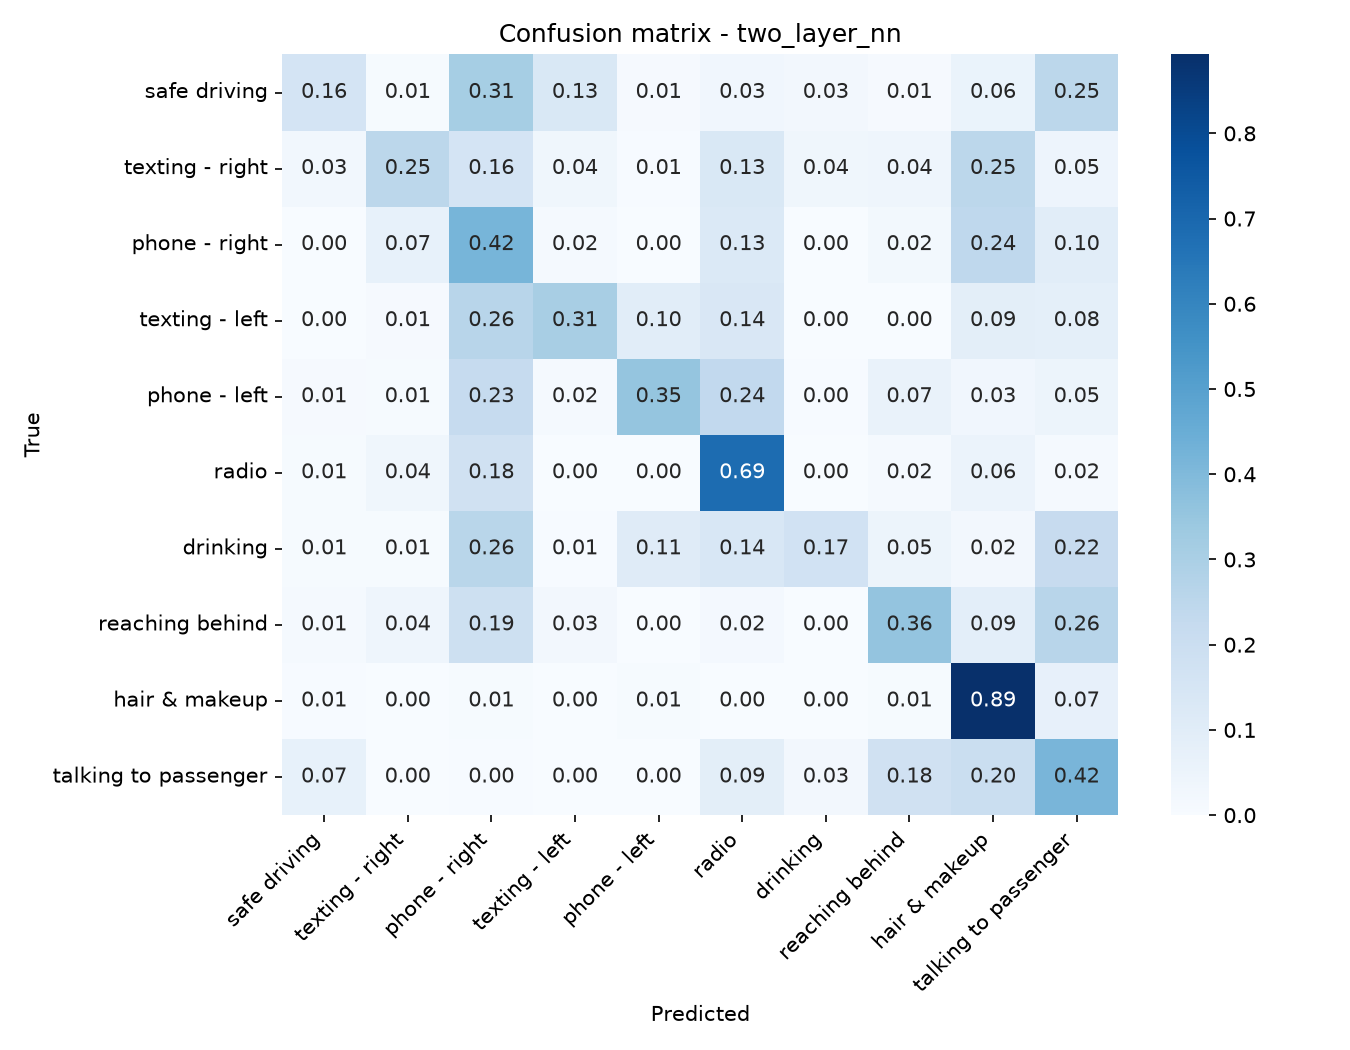
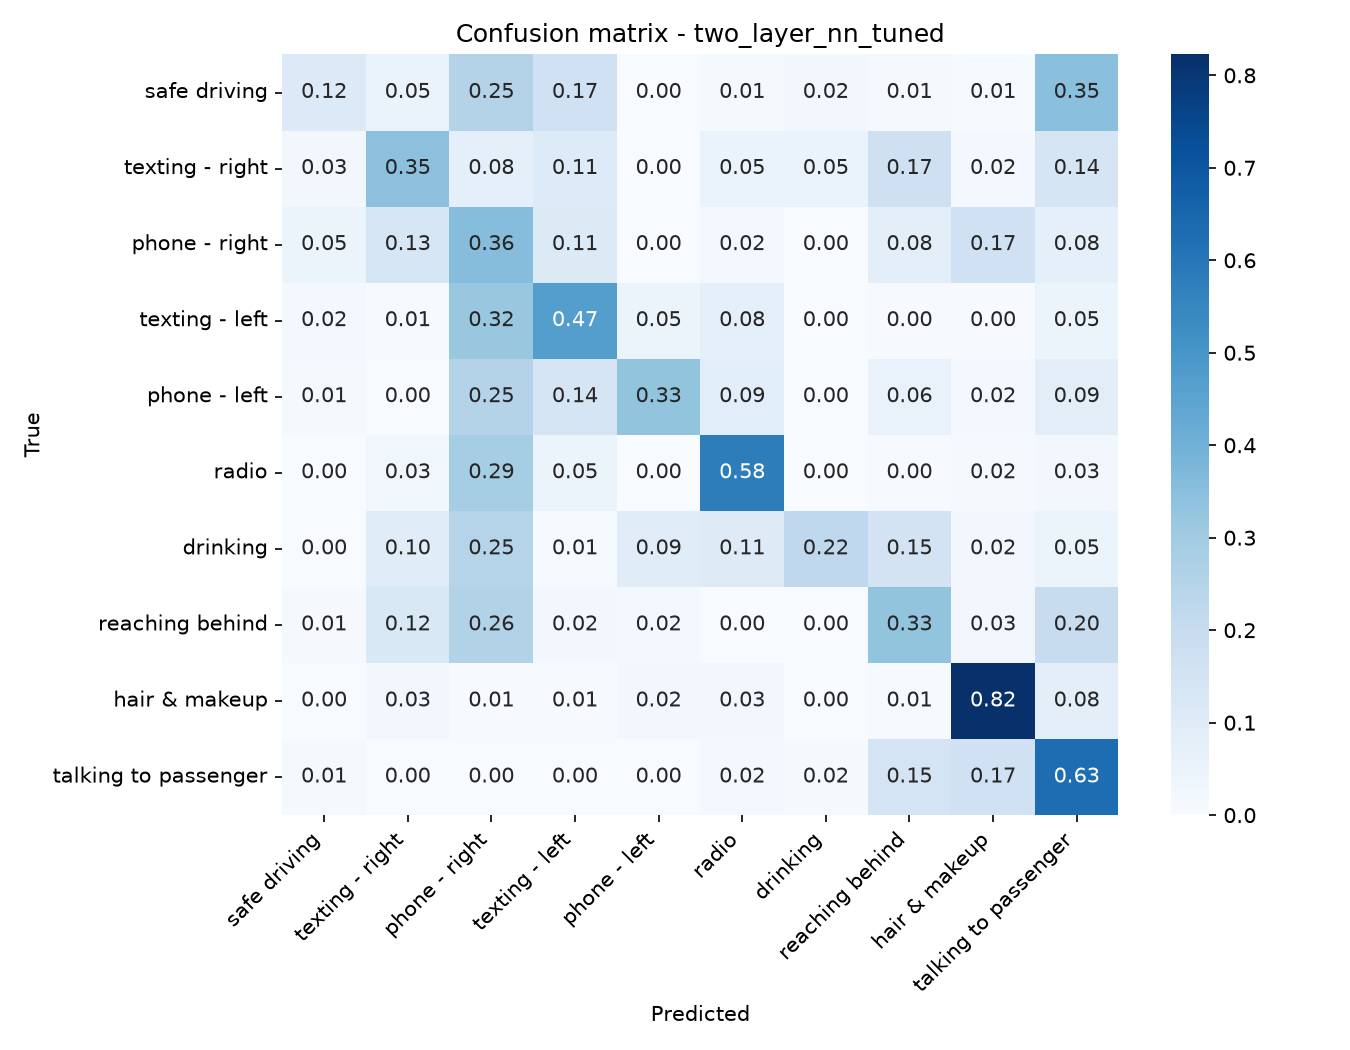
Add tuned neural network and random-split comparison

diff --git a/demo/app.py b/demo/app.py
@@ -1,0 +1,53 @@
+import glob
+import json
+import os
+import random
+import sys
+
+import cv2
+import gradio as gr
+import joblib
+import numpy as np
+
+sys.path.insert(0, "src")
+from utils import CLASSES
+
+rows = [json.load(open(p)) for p in glob.glob(os.path.join("results", "*.json"))]
+best = max(rows, key=lambda r: r["val_acc"])["model"]
+model = joblib.load(os.path.join("models", f"{best}.joblib"))
+mean = np.load(os.path.join("models", "mean.npy"))
+print("Loaded model:", best)
+
+
+def predict(img):
+    if img is None:
+        return None
+    im = cv2.resize(img, (64, 64), interpolation=cv2.INTER_AREA)
+    x = (im.flatten().astype(np.float32) / 255.0 - mean).reshape(1, -1)
+    if hasattr(model, "predict_proba"):
+        p = model.predict_proba(x)[0]
+    else:
+        s = model.decision_function(x)[0]
+        e = np.exp(s - s.max())
+        p = e / e.sum()
+    return {CLASSES[i]: float(p[i]) for i in range(10)}
+
+
+examples = []
+for c in range(10):
+    files = glob.glob(os.path.join("data", "train", f"c{c}", "*.jpg"))
+    if files:
+        examples.append(random.choice(files))
+
+demo = gr.Interface(
+    fn=predict,
+    inputs=gr.Image(type="numpy", label="Driver image"),
+    outputs=gr.Label(num_top_classes=5, label="Predicted activity"),
+    title="Distracted Driver Detection",
+    description=f"Upload a driver image to classify it into 10 activities. Model: {best}",
+    examples=examples,
+    cache_examples=False,
+)
+
+if __name__ == "__main__":
+    demo.launch()

diff --git a/src/train_nn_tuned.py b/src/train_nn_tuned.py
@@ -1,0 +1,17 @@
+from sklearn.neural_network import MLPClassifier
+from utils import load_data, report
+
+Xtr, ytr, Xva, yva = load_data()
+
+best, best_va, best_alpha = None, -1, None
+for alpha in [0.1, 1.0, 3.0]:
+    m = MLPClassifier(hidden_layer_sizes=(100,), activation="relu", alpha=alpha,
+                      max_iter=30, random_state=0)
+    m.fit(Xtr, ytr)
+    va = m.score(Xva, yva)
+    print(f"alpha={alpha}: val acc = {va:.4f}")
+    if va > best_va:
+        best, best_va, best_alpha = m, va, alpha
+
+report("two_layer_nn_tuned", best, Xtr, ytr, Xva, yva,
+       {"hidden": 100, "alpha": best_alpha})
